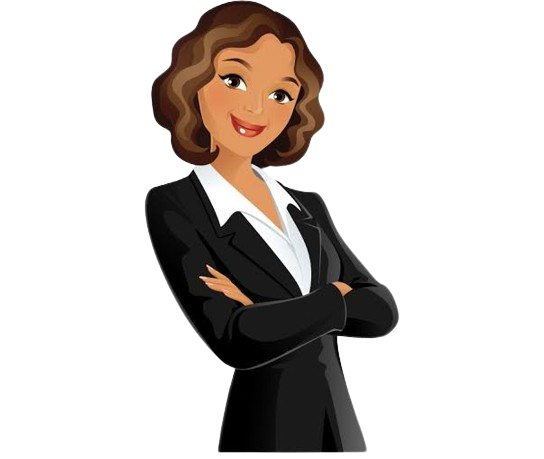
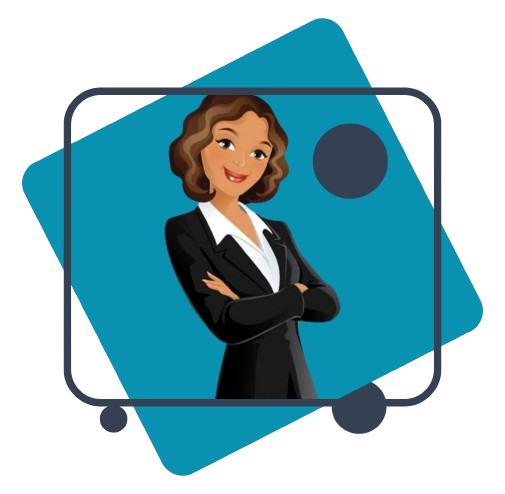
updated

diff --git a/src/components/Project.jsx b/src/components/Project.jsx
@@ -7,7 +7,7 @@ import project3 from "../assets/images/project-3.jpg";
 import project4 from "../assets/images/project-4.jpg";
 import project5 from "../assets/images/project-5.png";
 import project6 from "../assets/images/project-6.png";
-import projectPerson from "../assets/images/project_person.png";
+import projectPerson from "../assets/images/projectPerson.png";
 import "swiper/css";
 import "swiper/css/pagination";
 import { Pagination, Autoplay } from "swiper/modules";
@@ -107,7 +107,7 @@ const Project = () => {
           </Swiper>
         </div>
         <div className="lg:block hidden">
-          <img src={projectPerson} alt="" className="border-b-8 border-cyan-600 rounded-lg" />
+          <img src={projectPerson} alt="" />
         </div>
       </div>
     </section>

diff --git a/src/components/Hero.jsx b/src/components/Hero.jsx
@@ -12,7 +12,7 @@ const Hero = () => {
   return (
     <section
       id="home"
-      className="min-h-screen flex py-10 md:flex-row flex-col items-center"
+      className="min-h-screen flex py-10 md:flex-row flex-col items-center mt-8"
     >
       <div className="flex-1 flex items-center justify-center h-full">
         <img src={hero} alt="" className="md:w-11/12 h-full object-cover" />
